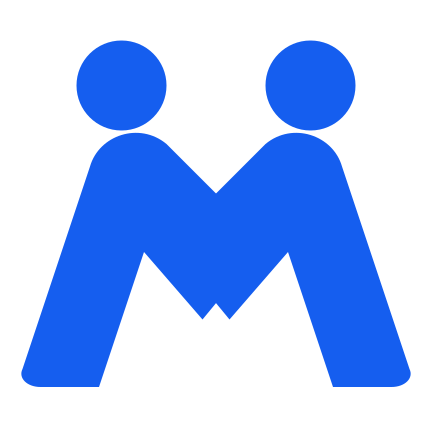
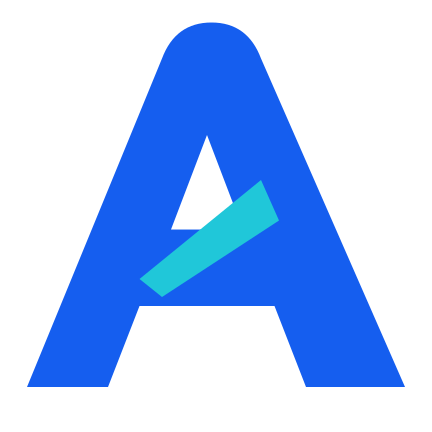
feat: introduce Unbroken A brand mark

Changed region(s): [[0.0301, 0.0301, 0.963, 0.9028]]

diff --git a/accountability-app/src/ui/brandGeometry.test.ts b/accountability-app/src/ui/brandGeometry.test.ts
@@ -43,41 +43,25 @@ function pngDimensions(filePath: string) {
   };
 }
 
-describe('AccountAbility brand geometry contract', () => {
+describe('Accountability Unbroken A brand geometry contract', () => {
   it('defines the approved canvas, colors, and wordmark capitalization', () => {
-    expect(BRAND_GEOMETRY.viewBox).toBe('0 0 96 88');
+    expect(BRAND_GEOMETRY.viewBox).toBe('0 0 96 96');
     expect(BRAND_GEOMETRY.colors).toEqual({
       cobalt: '#155EEF',
       navy: '#081A3A',
+      cyan: '#20C7D9',
       cream: '#F7F4EC',
     });
-    expect(BRAND_WORDMARK).toBe('AccountAbility');
+    expect(BRAND_WORDMARK).toBe('Accountability');
   });
 
-  it('contains exactly two heads and two asymmetric open-centre ribbons', () => {
-    expect(BRAND_GEOMETRY.heads).toHaveLength(2);
-    expect(BRAND_GEOMETRY.ribbons).toHaveLength(2);
-    expect({
-      heads: BRAND_GEOMETRY.heads,
-      ribbons: BRAND_GEOMETRY.ribbons,
-    }).toMatchInlineSnapshot(`
+  it('contains one Unbroken A silhouette and one rising motivation accent', () => {
+    expect(BRAND_GEOMETRY).not.toHaveProperty('heads');
+    expect(BRAND_GEOMETRY).not.toHaveProperty('ribbons');
+    expect(BRAND_GEOMETRY.mark).toMatchInlineSnapshot(`
       {
-        "heads": [
-          {
-            "cx": 27,
-            "cy": 15,
-            "r": 10,
-          },
-          {
-            "cx": 69,
-            "cy": 15,
-            "r": 10,
-          },
-        ],
-        "ribbons": [
-          "M5 78 20 33c2-7 11-10 17-5l22 22-14 17-13-15-10 30H9c-3 0-5-2-4-4Z",
-          "m91 78-15-45c-2-7-11-10-17-5L37 50l14 17 13-15 10 30h13c3 0 5-2 4-4Z",
-        ],
+        "accentPath": "M31 62 58 40 62 49 36 66Z",
+        "primaryPath": "M6 86 36 13Q39 5 47 5t11 8l32 73H68L61 68H31L24 86H6Zm32-35h16L46 30l-8 21Z",
       }
     `);
   });
@@ -97,9 +81,7 @@ describe('AccountAbility brand geometry contract', () => {
   it('exposes deeply immutable geometry', () => {
     expect(Object.isFrozen(BRAND_GEOMETRY)).toBe(true);
     expect(Object.isFrozen(BRAND_GEOMETRY.colors)).toBe(true);
-    expect(Object.isFrozen(BRAND_GEOMETRY.heads)).toBe(true);
-    expect(Object.isFrozen(BRAND_GEOMETRY.heads[0])).toBe(true);
-    expect(Object.isFrozen(BRAND_GEOMETRY.ribbons)).toBe(true);
+    expect(Object.isFrozen(BRAND_GEOMETRY.mark)).toBe(true);
     (BRAND_GEOMETRY.colors as { cobalt: string }).cobalt = '#000000';
     expect(BRAND_GEOMETRY.colors.cobalt).toBe('#155EEF');
   });
@@ -111,9 +93,10 @@ describe('AccountAbility brand geometry contract', () => {
     for (const duplicatedLiteral of [
       '#155EEF',
       '#081A3A',
+      '#20C7D9',
       '#F7F4EC',
-      'M5 78 20 33',
-      'm91 78-15-45',
+      'M6 86 36 13',
+      'M31 62 58 40',
     ]) {
       expect(generator).not.toContain(duplicatedLiteral);
     }

diff --git a/accountability-app/src/ui/brandGeometry.ts b/accountability-app/src/ui/brandGeometry.ts
@@ -12,14 +12,13 @@ type BrandGeometry = {
   colors: {
     cobalt: string;
     navy: string;
+    cyan: string;
     cream: string;
   };
-  heads: {
-    cx: number;
-    cy: number;
-    r: number;
-  }[];
-  ribbons: string[];
+  mark: {
+    primaryPath: string;
+    accentPath: string;
+  };
 };
 
 export type BrandGeometryContract = DeepReadonly<BrandGeometry>;
@@ -30,15 +29,6 @@ function isRecord(value: unknown): value is Record<string, unknown> {
 
 function isHexColor(value: unknown): value is string {
   return typeof value === 'string' && /^#[0-9A-F]{6}$/.test(value);
-}
-
-function isHead(value: unknown) {
-  return (
-    isRecord(value) &&
-    ['cx', 'cy', 'r'].every(
-      (key) => typeof value[key] === 'number' && Number.isFinite(value[key]),
-    )
-  );
 }
 
 function deepFreeze<T>(value: T): DeepReadonly<T> {
@@ -59,15 +49,13 @@ export function parseBrandGeometry(value: unknown): BrandGeometryContract {
     !isRecord(value.colors) ||
     !isHexColor(value.colors.cobalt) ||
     !isHexColor(value.colors.navy) ||
+    !isHexColor(value.colors.cyan) ||
     !isHexColor(value.colors.cream) ||
-    !Array.isArray(value.heads) ||
-    value.heads.length !== 2 ||
-    !value.heads.every(isHead) ||
-    !Array.isArray(value.ribbons) ||
-    value.ribbons.length !== 2 ||
-    !value.ribbons.every(
-      (ribbon) => typeof ribbon === 'string' && ribbon.length > 0,
-    )
+    !isRecord(value.mark) ||
+    typeof value.mark.primaryPath !== 'string' ||
+    value.mark.primaryPath.length === 0 ||
+    typeof value.mark.accentPath !== 'string' ||
+    value.mark.accentPath.length === 0
   ) {
     throw new Error('Invalid brand geometry');
   }
@@ -79,21 +67,18 @@ export function parseBrandGeometry(value: unknown): BrandGeometryContract {
  * Node asset generator. Keep it as JSON so neither runtime needs a transpiler.
  */
 export const BRAND_GEOMETRY = parseBrandGeometry(JSON.parse(String.raw`{
-  "viewBox": "0 0 96 88",
-  "wordmark": "AccountAbility",
+  "viewBox": "0 0 96 96",
+  "wordmark": "Accountability",
   "colors": {
     "cobalt": "#155EEF",
     "navy": "#081A3A",
+    "cyan": "#20C7D9",
     "cream": "#F7F4EC"
   },
-  "heads": [
-    { "cx": 27, "cy": 15, "r": 10 },
-    { "cx": 69, "cy": 15, "r": 10 }
-  ],
-  "ribbons": [
-    "M5 78 20 33c2-7 11-10 17-5l22 22-14 17-13-15-10 30H9c-3 0-5-2-4-4Z",
-    "m91 78-15-45c-2-7-11-10-17-5L37 50l14 17 13-15 10 30h13c3 0 5-2 4-4Z"
-  ]
+  "mark": {
+    "primaryPath": "M6 86 36 13Q39 5 47 5t11 8l32 73H68L61 68H31L24 86H6Zm32-35h16L46 30l-8 21Z",
+    "accentPath": "M31 62 58 40 62 49 36 66Z"
+  }
 }`));
 
 export const BRAND_WORDMARK = BRAND_GEOMETRY.wordmark;

diff --git a/accountability-app/src/ui/BrandMark.tsx b/accountability-app/src/ui/BrandMark.tsx
@@ -1,4 +1,4 @@
-import Svg, { Circle, Path } from 'react-native-svg';
+import Svg, { Path } from 'react-native-svg';
 
 import { BRAND_GEOMETRY, BRAND_WORDMARK } from './brandGeometry';
 
@@ -9,11 +9,7 @@ type BrandMarkProps = {
 };
 
 /**
- * AccountAbility's ribbon-people mark.
- *
- * The two figures lean together to make the approved A/M silhouette. Keep the
- * open centre and asymmetric overlap: they are what distinguish this mark from
- * a generic people icon.
+ * Accountability's Unbroken A: strength outside, rising motivation within.
  */
 export function BrandMark({
   size = 28,
@@ -28,18 +24,15 @@ export function BrandMark({
       accessibilityRole="image"
       accessibilityLabel={accessibilityLabel}
     >
-      {BRAND_GEOMETRY.heads.map((head) => (
-        <Circle
-          key={`${head.cx}-${head.cy}`}
-          cx={head.cx}
-          cy={head.cy}
-          r={head.r}
-          fill={color}
-        />
-      ))}
-      {BRAND_GEOMETRY.ribbons.map((ribbon) => (
-        <Path key={ribbon} d={ribbon} fill={color} />
-      ))}
+      <Path d={BRAND_GEOMETRY.mark.primaryPath} fill={color} />
+      <Path
+        d={BRAND_GEOMETRY.mark.accentPath}
+        fill={
+          color === BRAND_GEOMETRY.colors.cobalt
+            ? BRAND_GEOMETRY.colors.cyan
+            : color
+        }
+      />
     </Svg>
   );
 }
